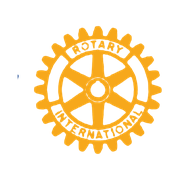
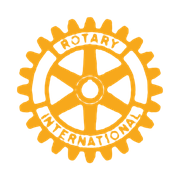
Our story wheel: spin about its own hub, no background circle
- Re-cut the wheel from the logo using gold pixels only. The earlier cut-out picked up a sliver of the "y" in "Rotary", which put the wheel about 5% off-centre, so it wobbled as it turned. It is now centred within a pixel.
- Removed the disc and shadow behind the wheel; it now turns on its own around the hub on the line.
- The browser tab and home-screen icons use the same corrected wheel.

Claude-Session: https://claude.ai/code/session_01397WvCZ2ghDGymg7JnAMmd

diff --git a/app/dx-extra.css b/app/dx-extra.css
@@ -65,7 +65,7 @@
 .dx .jf .fine a{text-decoration:underline}.dx .jf .fine a:hover{text-decoration-thickness:3px}
 
 /* Our story: the Rotary wheel rolls down the line as you scroll (replaces the demo's boat). 2.2deg per px = rolling without slipping for a 26px radius. */
-.dx .hwheel{position:absolute;left:50%;top:calc(100%*var(--p));width:52px;height:52px;margin:-26px 0 0 -26px;z-index:2;border-radius:50%;
-  background:radial-gradient(circle,var(--mist) 0 64%,transparent 65%);transform:rotate(calc(var(--p)*var(--h,300)*2.2deg));transition:top .1s linear,transform .1s linear;filter:drop-shadow(0 3px 6px rgba(11,31,58,.18))}
+.dx .hwheel{position:absolute;left:50%;top:calc(100%*var(--p));width:52px;height:52px;margin:-26px 0 0 -26px;z-index:2;
+  transform-origin:50% 50%;transform:rotate(calc(var(--p)*var(--h,300)*2.2deg));transition:top .1s linear,transform .1s linear}
 @media(max-width:900px){.dx .hwheel{left:20px}}
 @media(prefers-reduced-motion:reduce){.dx .hwheel{transform:none;transition:none}}
